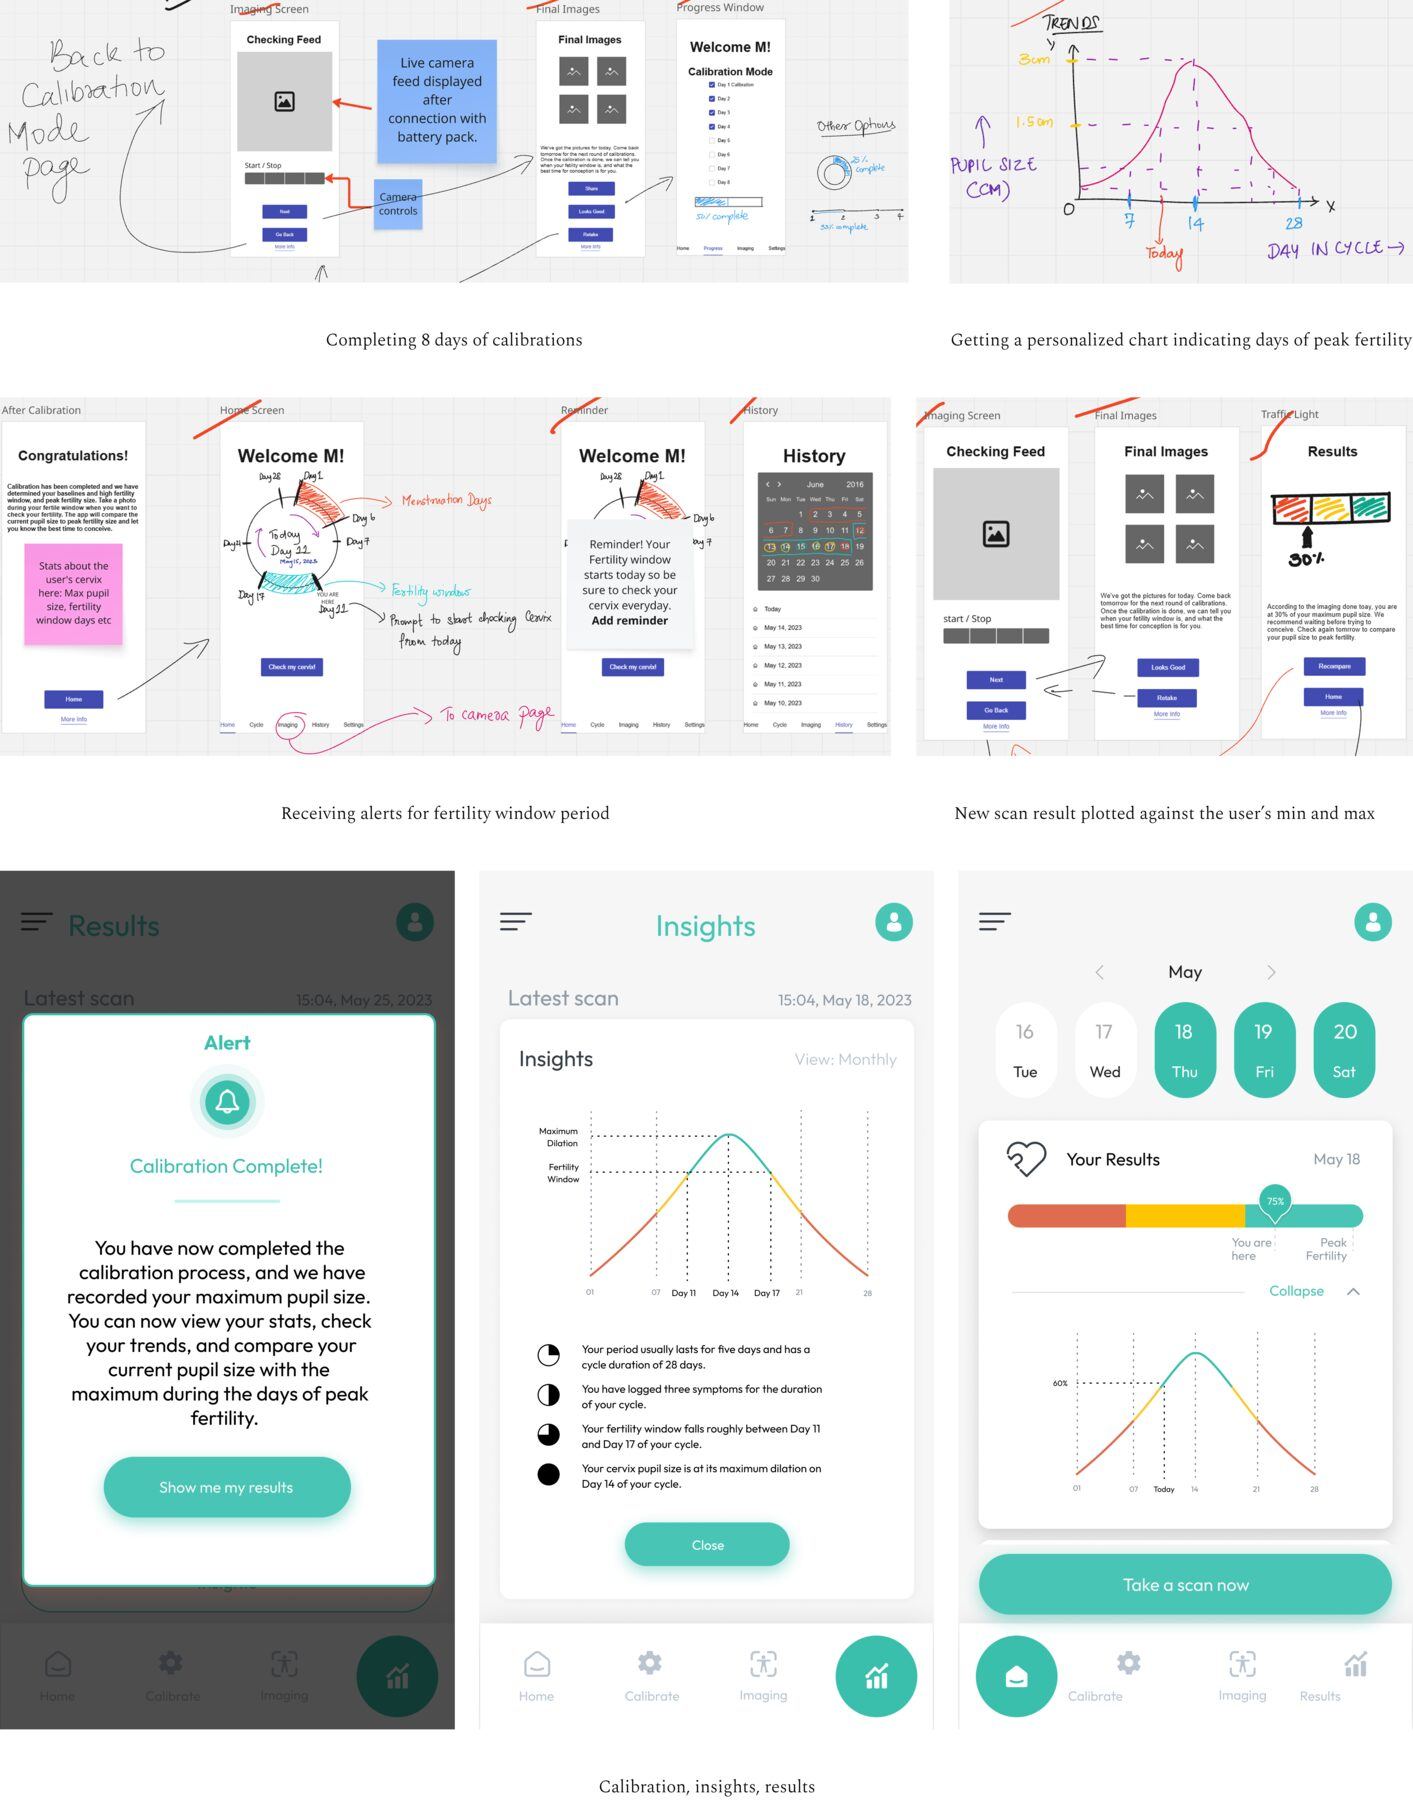
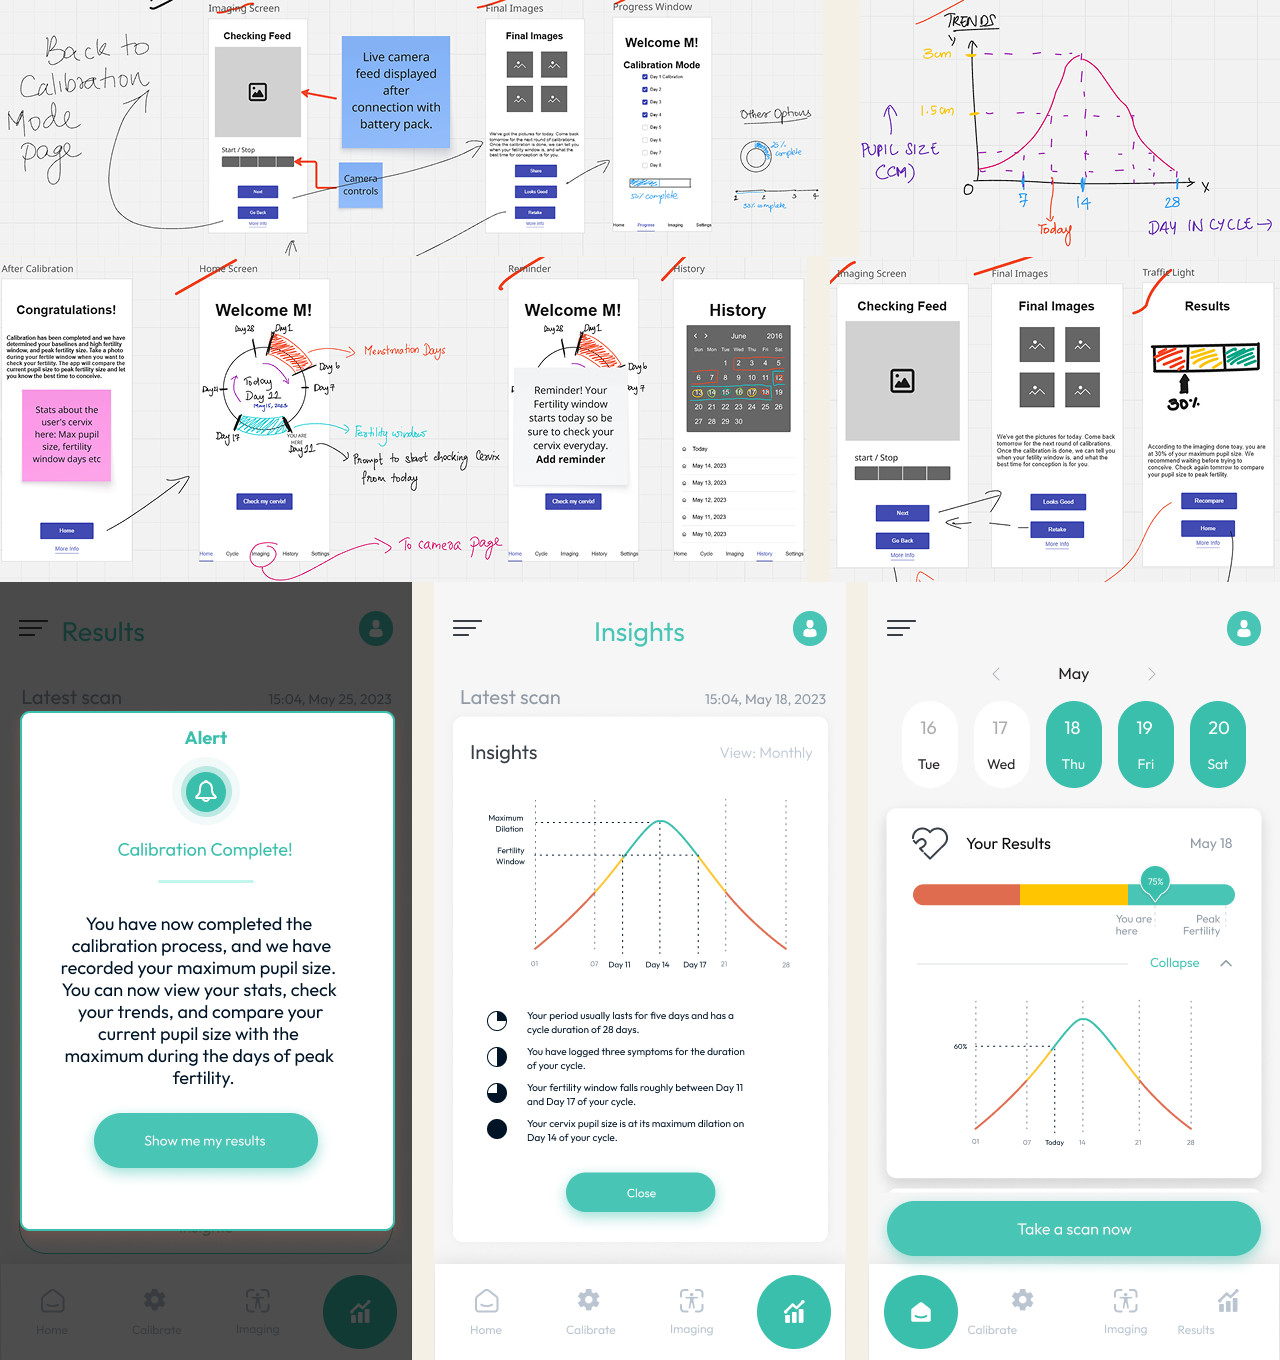
Elleloom Solutions images: remove transparent gaps instead of flattening them to white
The re-uploaded originals confirmed the gaps between screenshots in
each collage are real alpha transparency, not baked-in white pixels —
my earlier batch conversion flattened that transparency onto white,
which clashed with the page. Redone properly this time:

- Detected every column/row that is 100% transparent across the whole
  image (never touches a single opaque pixel) and spliced those out
  entirely, so panels/rows that were separated by dead space now sit
  flush against each other — same position and size otherwise, nothing
  cropped or resized
- Remaining (non-fully-transparent) pixels flattened onto the page's
  cream background instead of white
- elleloom-instructions.jpg: 1280x778 -> 1236x778 (44px of dead columns
  removed between the 3 phone panels)
- elleloom-solutions.jpg: 1280x1567 -> 1280x1360 (207px of dead rows
  removed between the 3 screenshot-group rows)
- elleloom-wireframes.jpg: 1280x1067 -> 1280x1020 (47px trimmed off
  the bottom; the gap between its two rows isn't fully transparent
  end-to-end — connecting arrows cross it — so it couldn't be safely
  spliced out the same way without risking cutting into content)

Content itself untouched in all three; this only removes columns/rows
that were provably 100% empty. Easy to revert via git if it doesn't
look right — nothing else in this commit depends on it.

diff --git a/project-elleloom.html b/project-elleloom.html
@@ -119,7 +119,7 @@
         <img src="images/elleloom-instructions.jpg" alt="Elleloom app instructions screen" loading="lazy" decoding="async">
       </div>
       <p class="case-image-caption">Emphasis on ensuring the user inserts the device before starting the camera.</p>
-      <p>I also wanted to make the data the user gets from the scan is actionable and understandable by the user. Dilation data is of no use to the person trying to conceive if all they can see are millimeter measurements of the cervical pupil size. Instead, I created a workflow where the user could go through an 8-day calibration during their fertility window that would narrow down the data to minimum and maximum dilation, which makes it easier to inform the user on the next cycle what their estimated dilation is on a particular day.</p>
+      <p>I also wanted to make sure the data the user gets from the scan is actionable and understandable by the user. Dilation data is of no use to the person trying to conceive if all they can see are millimeter measurements of the cervical pupil size. Instead, I created a workflow where the user could go through an 8-day calibration during their fertility window that would narrow down the data to minimum and maximum dilation, which makes it easier to inform the user on the next cycle what their estimated dilation is on a particular day.</p>
       <div class="case-image">
         <img src="images/elleloom-solutions.jpg" alt="Elleloom app screens: insertion guide, calibration, and results" loading="lazy" decoding="async">
       </div>
